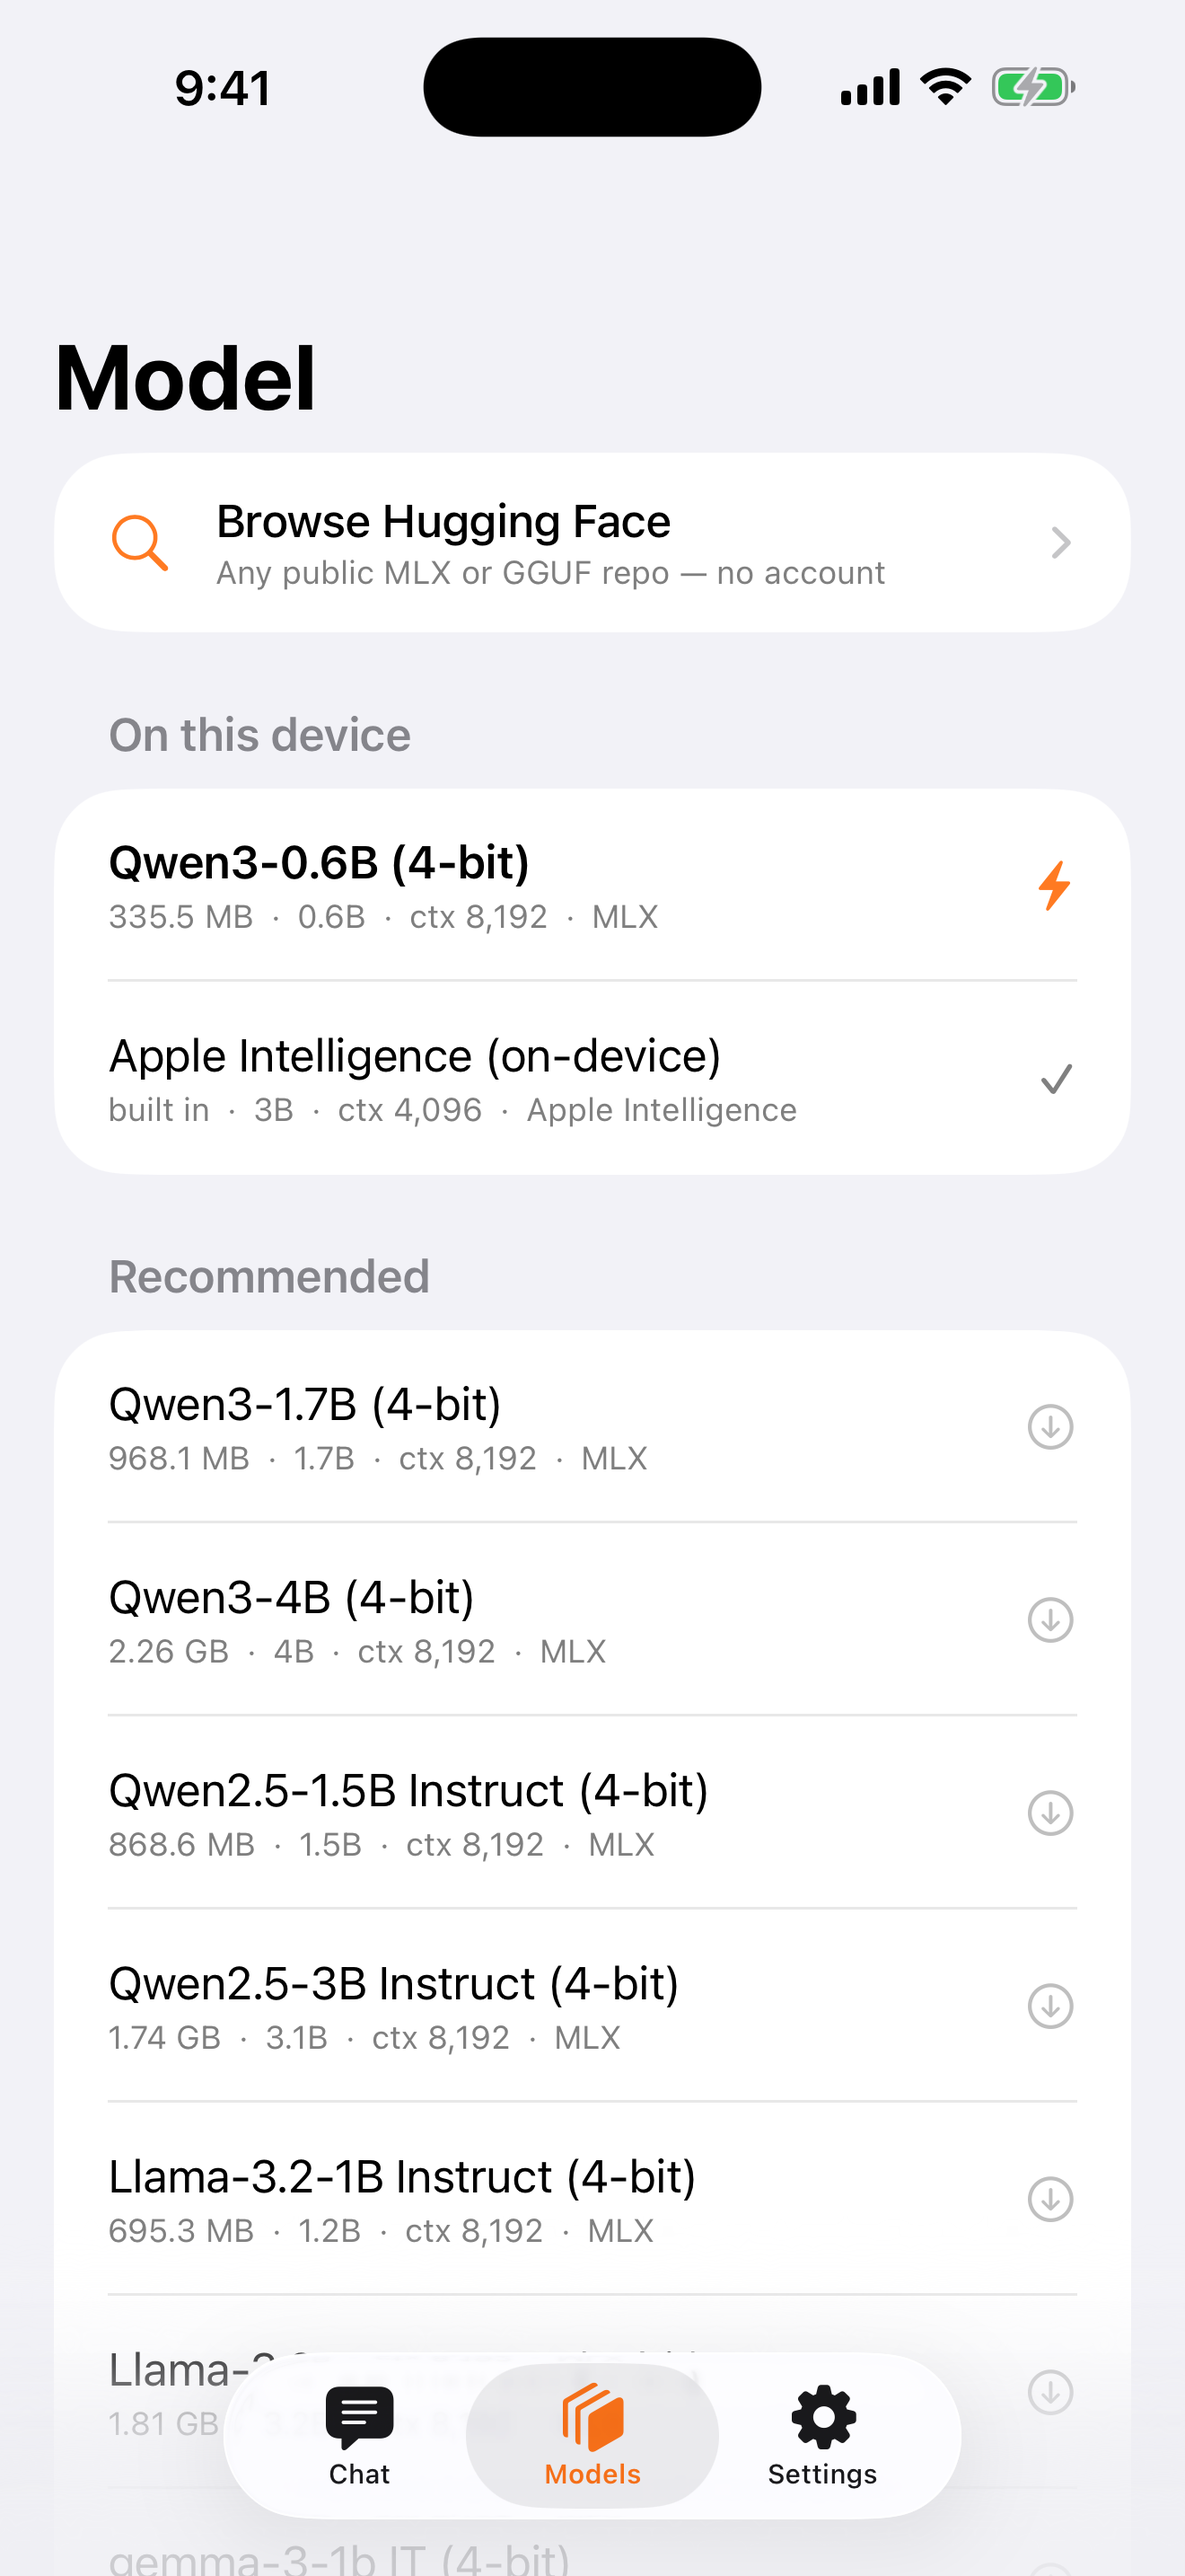
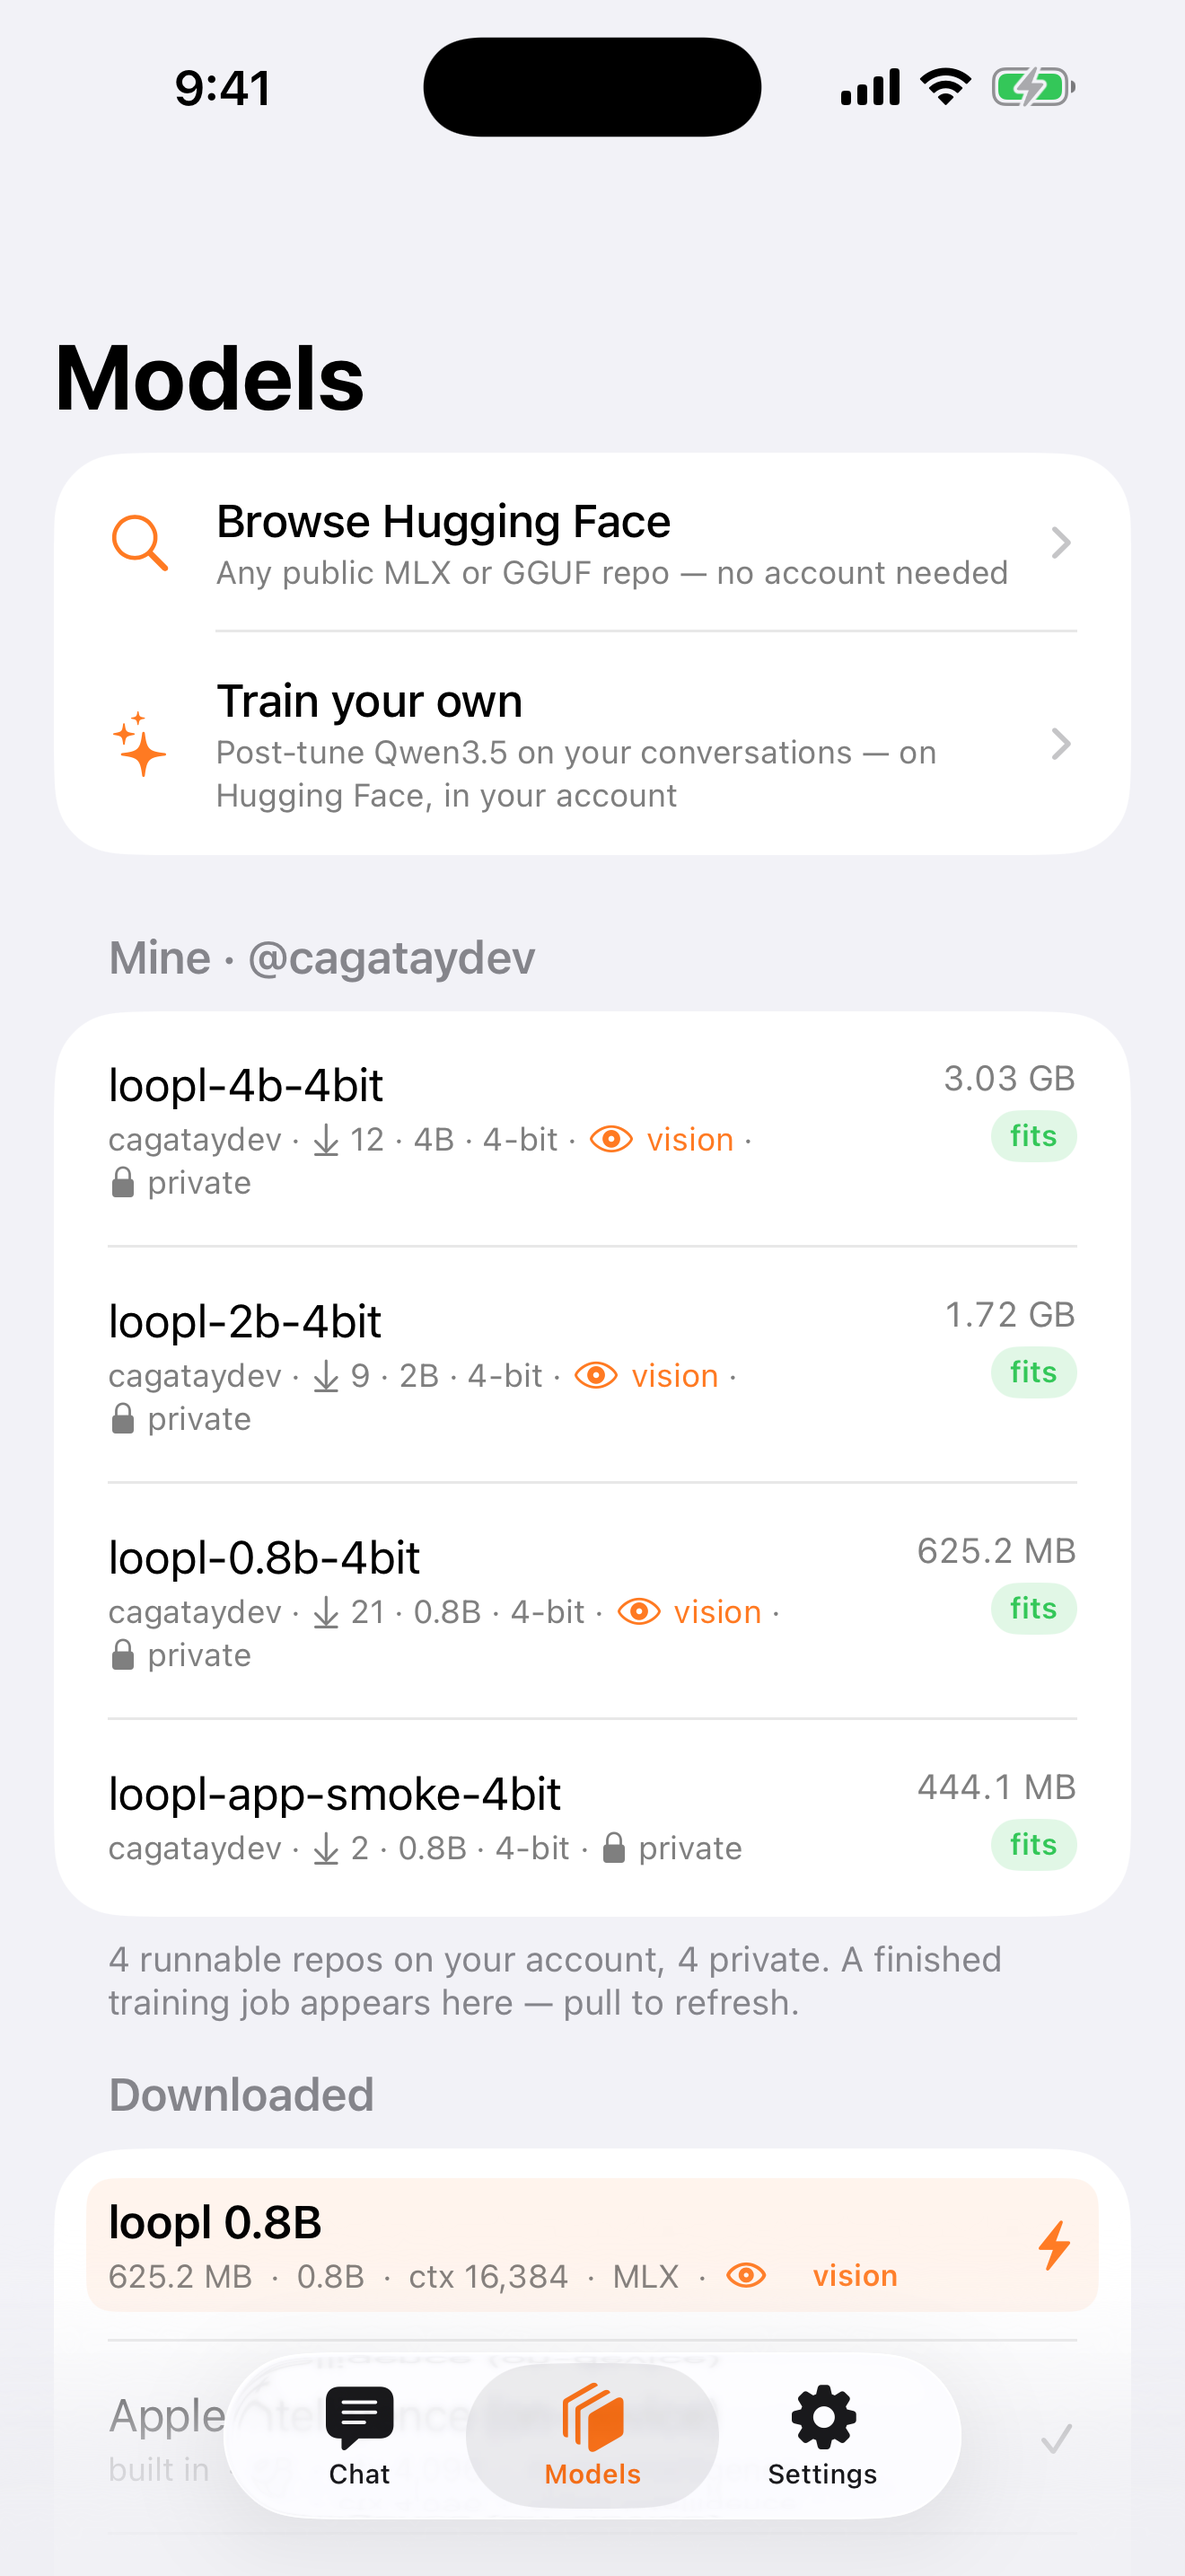
App Store screenshots: 10-scene story + DEBUG fixture switches (--design-mine/--design-share/--design-settings storage/--design-editing)
scripts/appstore-screenshots.sh shoots the landing-v2 story (tool, vision, approval, Models+Mine, audio, Train, Share to HF,
Storage, edit, onboarding) on 6.9"/6.5"/iPad 13". Fixture switches are no-ops in Release (DesignFixture.requested).

diff --git a/App/Sources/DesignFixture.swift b/App/Sources/DesignFixture.swift
@@ -28,6 +28,33 @@ enum DesignFixture {
     /// The `tool` scene opens its tool rows so a screenshot shows the args/result card.
     static var expandTools: Bool { requested && scene == "tool" }
 
+    /// Screenshot-only switches (App Store / landing captures; all DEBUG, all no-ops in Release):
+    /// `--design-editing` opens the last user row of the `edit` scene in the in-place editor ·
+    /// `--design-share select|review` opens History in selection mode (all threads ticked) and, for `review`,
+    /// the Share-to-Hugging-Face sheet on its review step · `--design-settings storage` pushes Settings › Storage ·
+    /// `--design-mine` signs the session in as @cagataydev (no network) and fills Models › Mine with the loopl v1 repos.
+    static func flag(_ name: String) -> Bool { requested && CommandLine.arguments.contains(name) }
+    static func value(_ name: String) -> String? {
+        guard requested, let i = CommandLine.arguments.firstIndex(of: name), i + 1 < CommandLine.arguments.count,
+              !CommandLine.arguments[i + 1].hasPrefix("-") else { return nil }
+        return CommandLine.arguments[i + 1]
+    }
+    static var editing: Bool { flag("--design-editing") && scene == "edit" }
+    static var share: String? { value("--design-share") }
+    static var settingsPane: String? { value("--design-settings") }
+    static var mine: Bool { flag("--design-mine") }
+
+    /// `--design-mine`: the Hub rows of cagataydev/loopl-* as `/api/models?author=` returned them on 2026-10-06 (no network).
+    static var mineHits: [HubCatalog.Hit] {
+        let json = """
+        [{"id":"cagataydev/loopl-4b-4bit","kind":"mlx","downloads":12,"likes":3,"gated":false,"pipeline":"image-text-to-text","modelType":"qwen3_5","bits":4,"sizeBytes":3034299183,"paramsB":4.0,"lastModified":"2026-10-06T12:40:00.000Z","isPrivate":true,"files":["config.json","model.safetensors","preprocessor_config.json","tokenizer.json"]},
+         {"id":"cagataydev/loopl-2b-4bit","kind":"mlx","downloads":9,"likes":2,"gated":false,"pipeline":"image-text-to-text","modelType":"qwen3_5","bits":4,"sizeBytes":1722271227,"paramsB":2.0,"lastModified":"2026-10-06T12:31:00.000Z","isPrivate":true,"files":["config.json","model.safetensors","preprocessor_config.json","tokenizer.json"]},
+         {"id":"cagataydev/loopl-0.8b-4bit","kind":"mlx","downloads":21,"likes":4,"gated":false,"pipeline":"image-text-to-text","modelType":"qwen3_5","bits":4,"sizeBytes":625228929,"paramsB":0.8,"lastModified":"2026-10-06T12:24:00.000Z","isPrivate":true,"files":["config.json","model.safetensors","preprocessor_config.json","tokenizer.json"]},
+         {"id":"cagataydev/loopl-app-smoke-4bit","kind":"mlx","downloads":2,"likes":0,"gated":false,"pipeline":"text-generation","modelType":"qwen3_5","bits":4,"sizeBytes":444091186,"paramsB":0.8,"lastModified":"2026-10-06T05:10:00.000Z","isPrivate":true,"files":["config.json","model.safetensors","tokenizer.json"]}]
+        """
+        return (try? JSONDecoder().decode([HubCatalog.Hit].self, from: Data(json.utf8))) ?? []
+    }
+
     /// `--design-train form|running|done|failed` opens Models › Train your own on a pre-baked session (no network, no token).
     static var trainScene: String? {
         #if DEBUG
@@ -86,6 +113,7 @@ enum DesignFixture {
         if scene == "persona", !CommandLine.arguments.contains("--design-local-vision") { engine.store.overrideLocalVision(specId, false) }
         let spec = engine.store.catalog.models.first { $0.id == specId } ?? engine.store.catalog.models.first!
         engine.readiness = .ready(spec)
+        if mine { engine.hf.designIdentity(name: "cagataydev", fullname: "Cagatay Cali") }
         settings.showPerformance = CommandLine.arguments.contains("--design-perf")
         settings.offline = scene == "offline"
         var t = Transcript()

diff --git a/App/Sources/Views/ChatView.swift b/App/Sources/Views/ChatView.swift
@@ -73,6 +73,15 @@ struct ChatView: View {
                 // The edited row left the transcript (saved, or the thread was cut under it): no stale editor.
                 if let editing, engine.transcript.index(of: editing) == nil { self.editing = nil }
             }
+            .onAppear {
+                #if DEBUG
+                // Screenshot fixtures: the in-place editor on the last user row / History (+ share) already open.
+                if DesignFixture.editing, editing == nil {
+                    editing = engine.transcript.items.last { if case .user = $0.kind { return true }; return false }?.id
+                }
+                if DesignFixture.share != nil { showHistory = true }
+                #endif
+            }
             .animation(LooplDesign.Motion.faded(LooplDesign.Motion.spring, reduceMotion), value: engine.lastError)
             .navigationTitle(engine.loadedModel?.name ?? "loopl")
             .navigationBarTitleDisplayMode(.inline)

diff --git a/App/Sources/History.swift b/App/Sources/History.swift
@@ -274,6 +274,15 @@ struct HistoryList: View {
                 .transition(reduceMotion ? .opacity : .move(edge: .bottom).combined(with: .opacity))
             }
         }
+        .onAppear {
+            #if DEBUG
+            // `--design-share select|review` (screenshots): every thread ticked; `review` also opens the sheet.
+            if let mode = DesignFixture.share, !selecting, !engine.archive.conversations.isEmpty {
+                selecting = true; selected = Set(engine.archive.conversations.map(\.id))
+                if mode == "review" { sharing = ShareBatch(conversations: engine.archive.conversations) }
+            }
+            #endif
+        }
         .sheet(item: $sharing) { batch in
             HubShareView(share: HubShare(conversations: batch.conversations)) {
                 sharing = nil

diff --git a/App/Sources/Views/SettingsView.swift b/App/Sources/Views/SettingsView.swift
@@ -4,6 +4,7 @@ import LooplUI
 import LooplRuntimes
 
 struct SettingsView: View {
+    @State private var storagePushed = false
     @Bindable var engine: Engine
     @Bindable var settings: AppSettings
     @Bindable var store: ModelStore
@@ -92,6 +93,8 @@ struct SettingsView: View {
             }
             .looplScrollClearance()
             .accessibilityIdentifier("pane-settings")
+            .navigationDestination(isPresented: $storagePushed) { StorageView(engine: engine, settings: settings, store: store) }   // DEBUG `--design-settings storage`
+            .onAppear { if DesignFixture.settingsPane == "storage" { storagePushed = true } }
             .navigationTitle("Settings")
         }
     }

diff --git a/App/Sources/Views/MineSection.swift b/App/Sources/Views/MineSection.swift
@@ -16,6 +16,9 @@ final class MineModel {
     /// `force` bypasses nothing on the Hub side (2-minute cache) but re-asks even when `author` is unchanged — pull-to-refresh.
     func load(author: String?, force: Bool = false) async {
         guard let author else { hits = []; error = nil; loadedFor = nil; return }
+        #if DEBUG
+        if DesignFixture.mine { hits = DesignFixture.mineHits; loadedFor = author; return }   // screenshot fixture, no network
+        #endif
         if !force, loadedFor == author, error == nil { return }
         loading = true; error = nil
         defer { loading = false }

diff --git a/App/Sources/Views/HuggingFaceSection.swift b/App/Sources/Views/HuggingFaceSection.swift
@@ -24,6 +24,13 @@ public final class HFSession {
         }
     }
 
+    #if DEBUG
+    /// Screenshot fixture (`--design-mine`): a signed-in look without a token or network. Never persisted.
+    public func designIdentity(name: String, fullname: String?) {
+        identity = Identity(name: name, fullname: fullname, type: "user", role: "read", tokenName: "loopl", fineGrainedScopes: [], avatarURL: nil)
+    }
+    #endif
+
     public var isSignedIn: Bool { account.isSignedIn }
     public var token: String? { account.token }
     public var provider: HFTokenProvider { account.provider }
